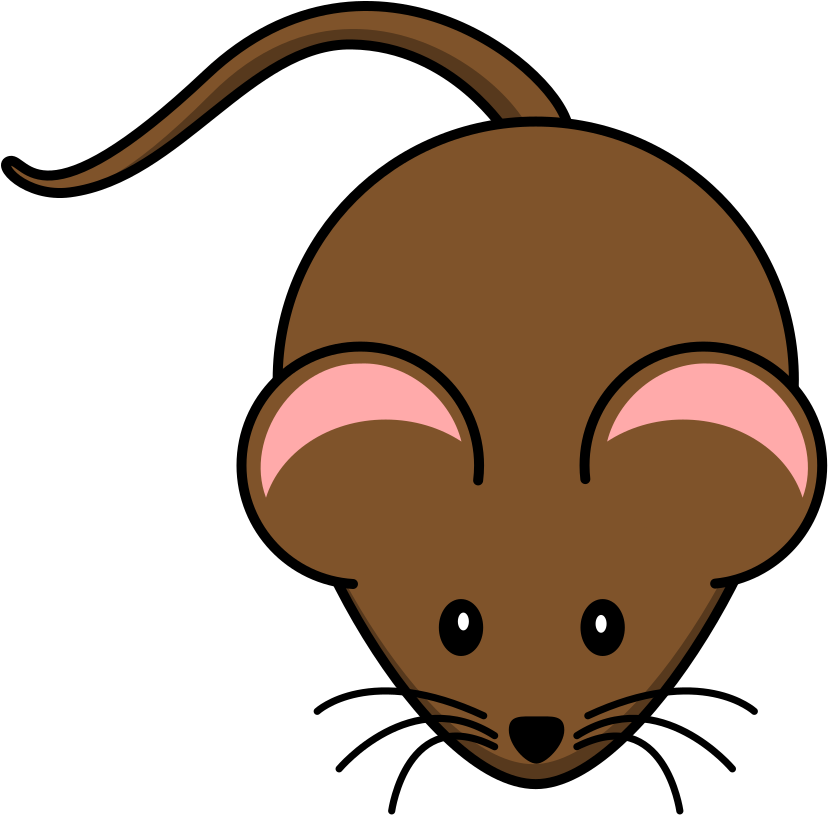
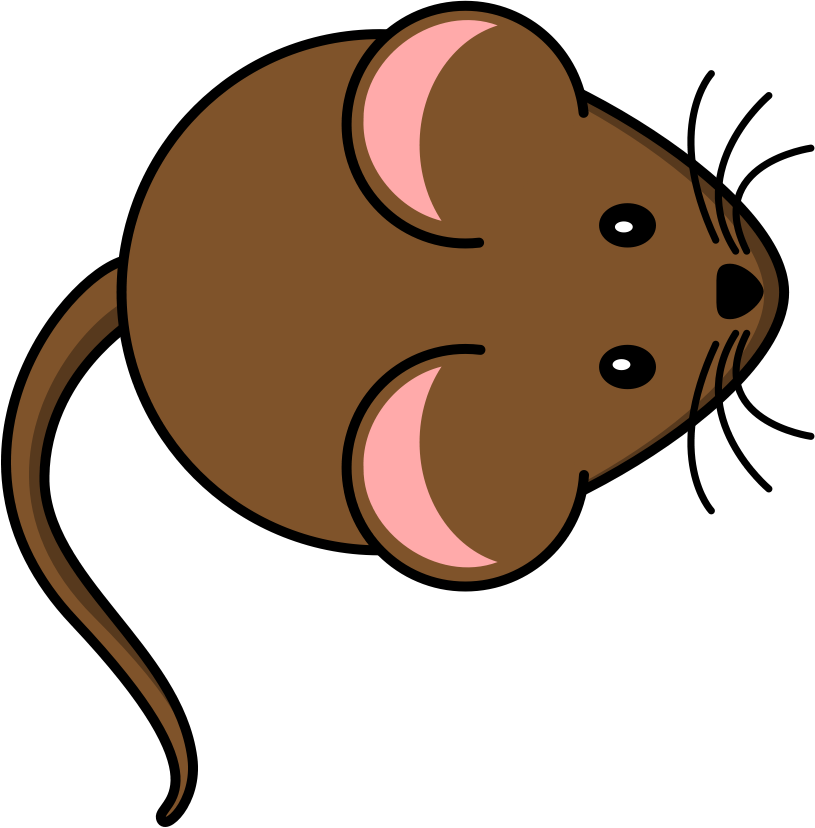
rat moves well

diff --git a/Rat.java b/Rat.java
@@ -14,15 +14,17 @@ public class Rat extends THINGYCHANGE {
 
     // private int dx;
     // private int dy;
-    private int x;
-    private int y;
+    private double x;
+    private double y;
     private double angle;
     private InputHandler inputHandler;
-    private static int width = 50;
-    private static int height = 50;
+    private static int width = 100;
+    private static int height = 100;
     private static Image ratImage = Toolkit.getDefaultToolkit().getImage("rat.png");
-    private static int DEGREES_TURNED = 2;
-    private static int RAT_SPEED = 3;
+    private static int DEGREES_TURNED = 4;
+    private static int RAT_SPEED = 5;
+    private static int MOVE_FORWARD = 1;
+    private static int MOVE_BACKWARD = -1;
     // public Rat(int x, int y, int width, int height, int dx, int dy, InputHandler inputHandler) {
     //     setBounds(x, y, width, height);
     //     this.dx = dx;
@@ -30,7 +32,7 @@ public class Rat extends THINGYCHANGE {
     //     this.inputHandler = inputHandler;
     // }
     
-    public Rat(int x, int y, double angle, InputHandler inputHandler) {
+    public Rat(double x, double y, double angle, InputHandler inputHandler) {
         this.x = x;
         this.y = y;
         // this.dx = dx;
@@ -49,10 +51,10 @@ public class Rat extends THINGYCHANGE {
             angle -= DEGREES_TURNED;
         }
         if(inputHandler.isKeyPressed(KeyEvent.VK_W) || inputHandler.isKeyPressed(KeyEvent.VK_UP)) {
-            x -= RAT_SPEED;
+            moveRat(MOVE_FORWARD);
         }
         else if(inputHandler.isKeyPressed(KeyEvent.VK_S) || inputHandler.isKeyPressed(KeyEvent.VK_DOWN)) {
-            x += RAT_SPEED;
+            moveRat(MOVE_BACKWARD);
         }
 
         // if(inputHandler.isKeyUp(KeyEvent.VK_D) || inputHandler.isKeyUp(KeyEvent.VK_RIGHT)||inputHandler.isKeyUp(KeyEvent.VK_A) || inputHandler.isKeyUp(KeyEvent.VK_LEFT)) {
@@ -64,6 +66,13 @@ public class Rat extends THINGYCHANGE {
         
     }
 
+    public void moveRat(int forwardBackward) {
+        double deltaX = forwardBackward * (RAT_SPEED*Math.cos(Math.toRadians(angle)));
+        double deltaY = forwardBackward * (RAT_SPEED*Math.sin(Math.toRadians(angle)));
+        x += deltaX;
+        y += deltaY;
+    }
+
     public void draw(Graphics g) {
         g.setColor(Color.black);
         Graphics2D g2d = (Graphics2D) g;
@@ -73,7 +82,7 @@ public class Rat extends THINGYCHANGE {
 
         g2d.setTransform(identity);
         g2d.rotate(Math.toRadians(angle), x, y);
-        g.drawImage(ratImage, x - (width/2), y - (height/2), width, height, null);
+        g.drawImage(ratImage, (int) (x - (width/2)), (int) (y - (height/2)), width, height, null);
     }
 
     // public void setDx(int dx) {

diff --git a/GameManager.java b/GameManager.java
@@ -22,7 +22,7 @@ public class GameManager {
         else {
             player2 = new Computer();
         }
-        rat = new Rat(50, 50, 270, inputHandler);
+        rat = new Rat(100, 500, 0, inputHandler);
     }
 
     public void tick() {
